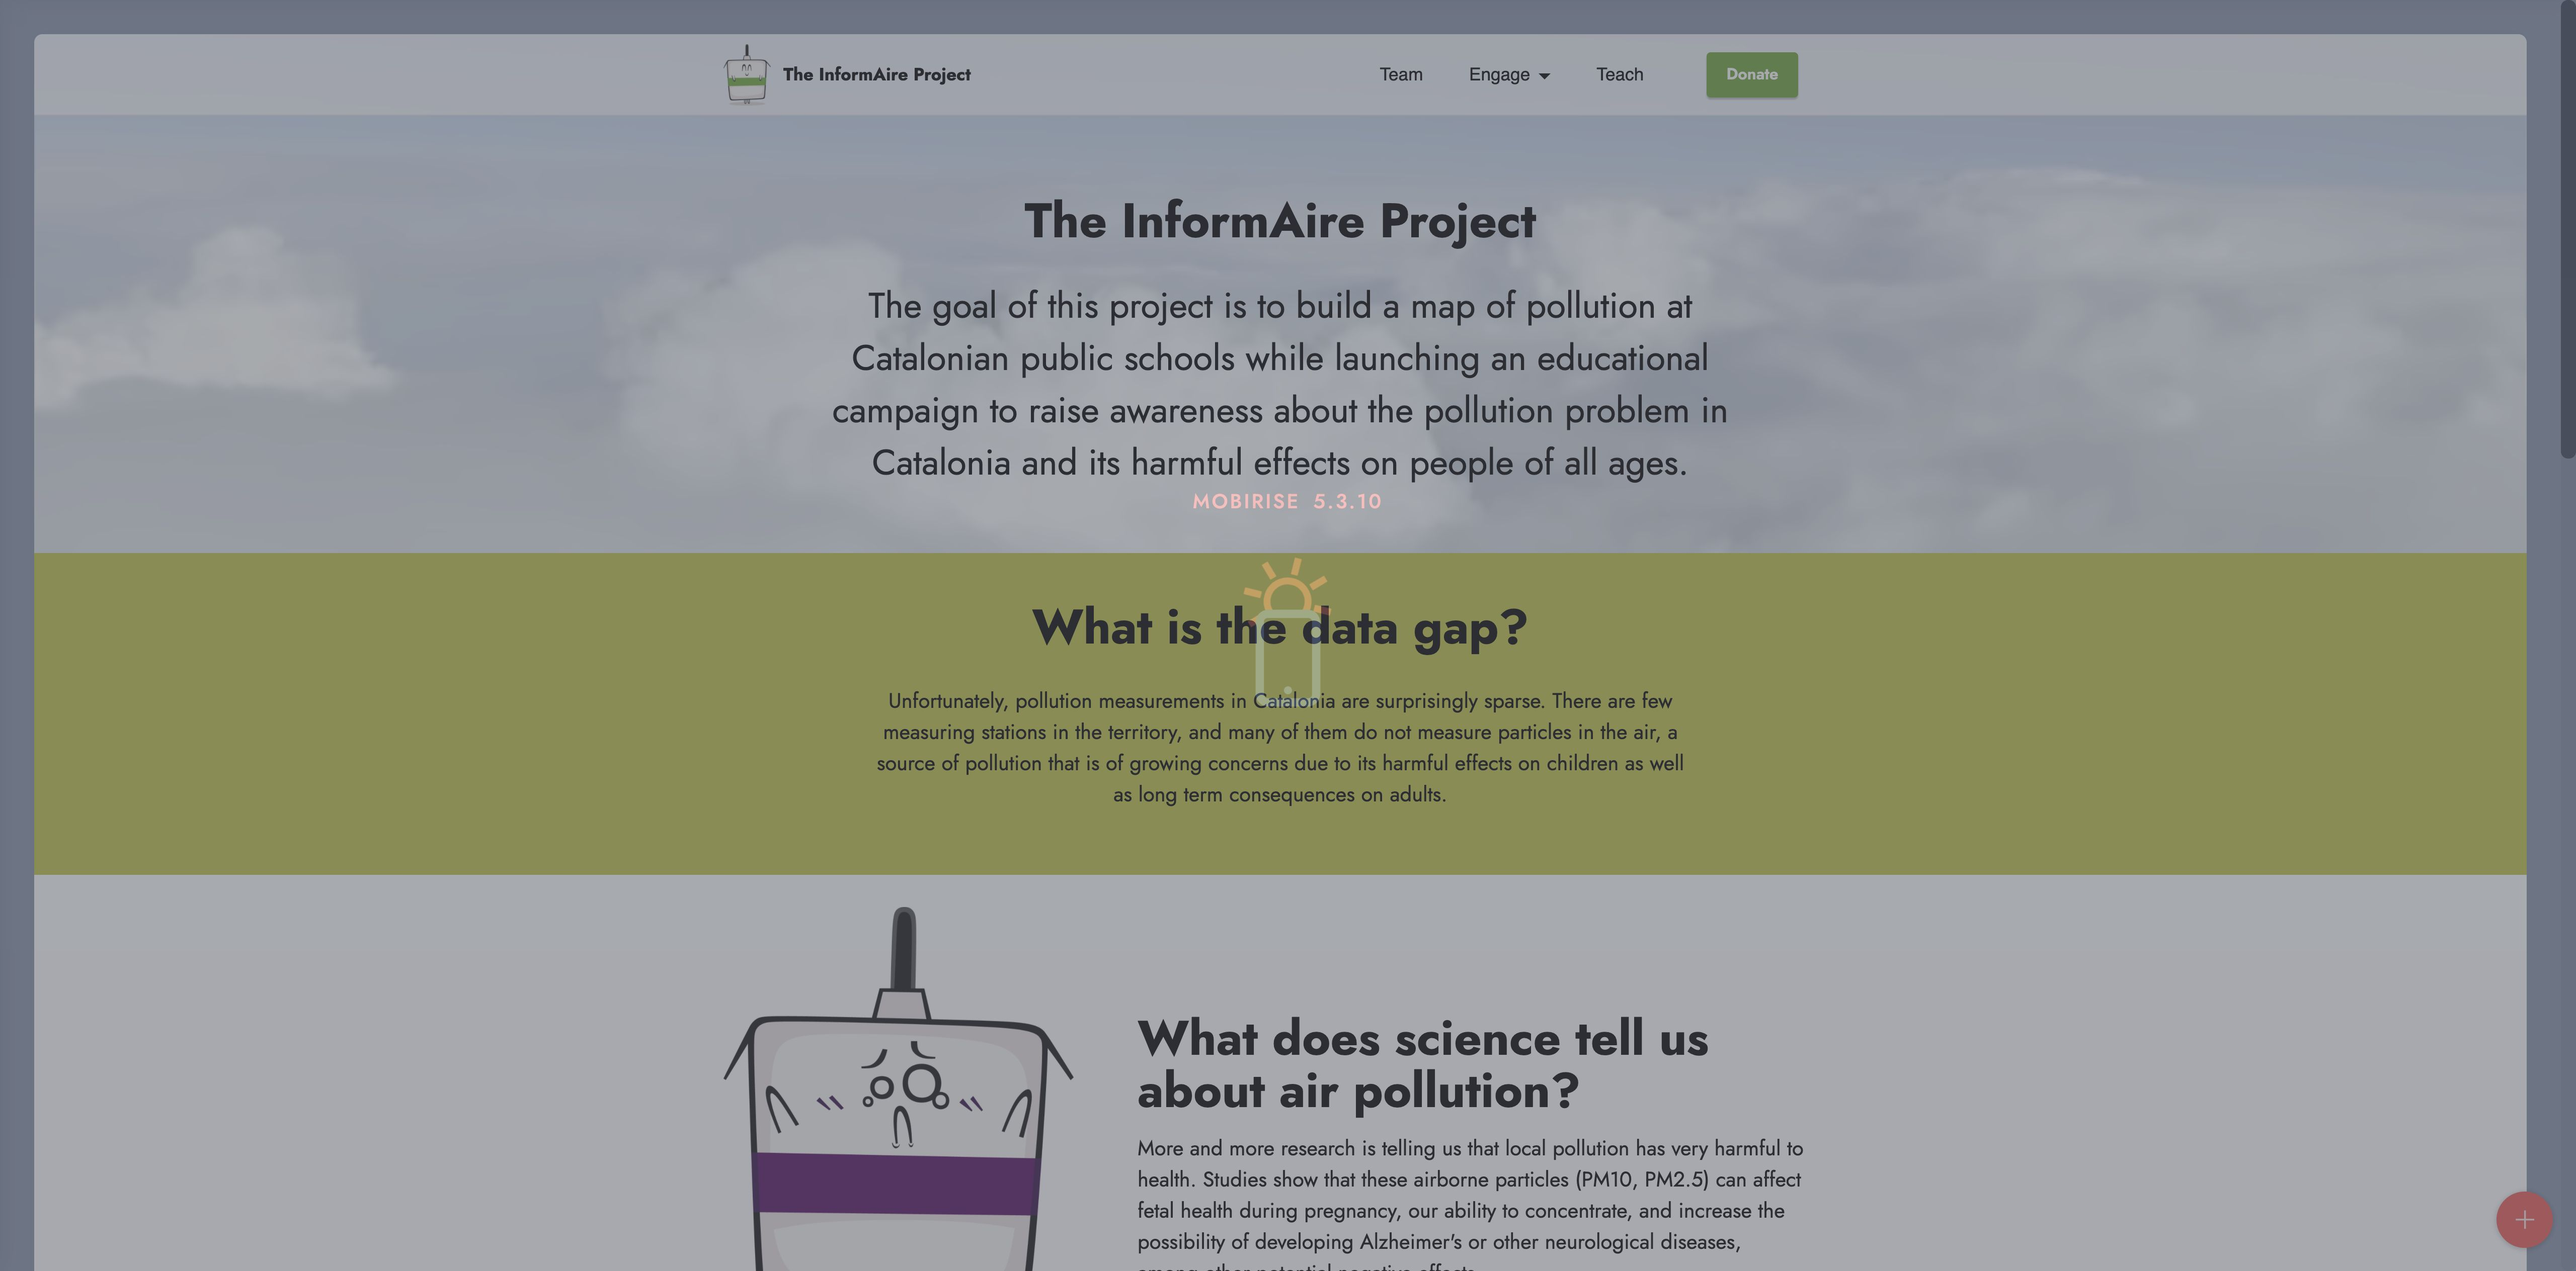
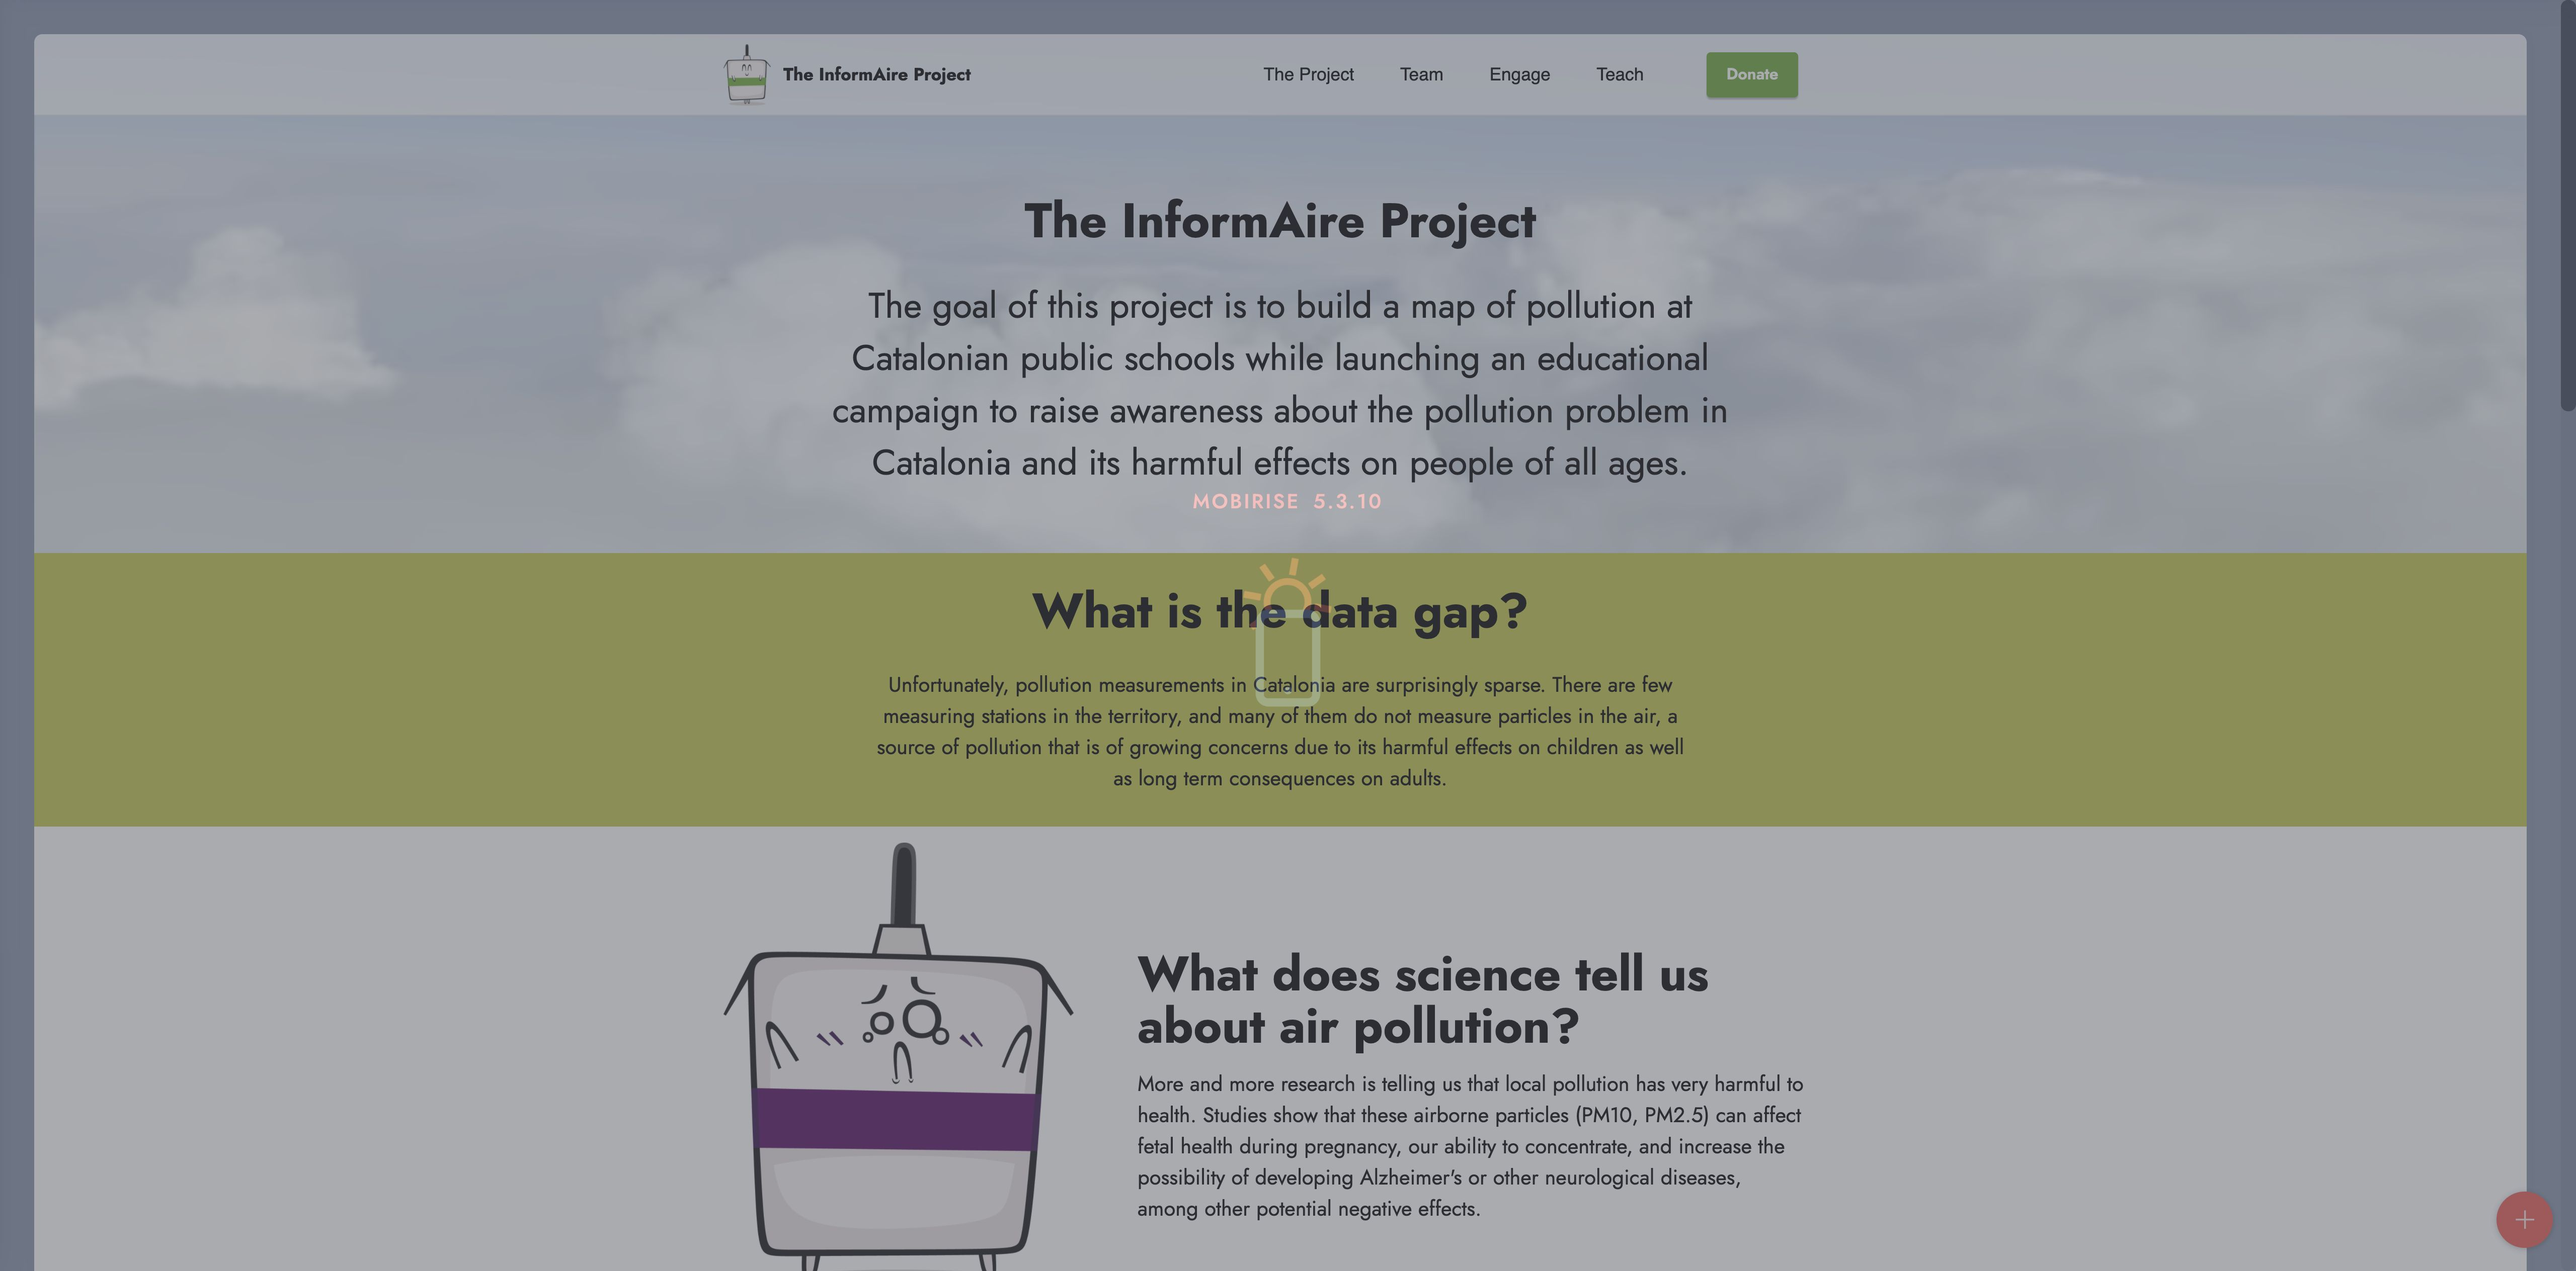
small change to title

Changed region(s): [[0.0, 0.4688, 1.0, 1.0], [0.4375, 0.75, 0.6875, 1.0], [0.9688, 0.3125, 1.0, 0.3438]]

diff --git a/engage.html b/engage.html
@@ -33,38 +33,7 @@
 </head>
 <body>
   
-  <section class="menu cid-sFeZ1M0rtN" once="menu" id="menu1-4q">
-    
-    <nav class="navbar navbar-dropdown navbar-fixed-top navbar-expand-lg">
-        <div class="container">
-            <div class="navbar-brand">
-                <span class="navbar-logo">
-                    <a href="index.html">
-                        <img src="assets/images/01-base-121x156.png" alt="The InformAire Project" style="height: 3.8rem;">
-                    </a>
-                </span>
-                <span class="navbar-caption-wrap"><a class="navbar-caption text-black text-primary display-4" href="index.html">The InformAire Project</a></span>
-            </div>
-            <button class="navbar-toggler" type="button" data-toggle="collapse" data-target="#navbarSupportedContent" aria-controls="navbarNavAltMarkup" aria-expanded="false" aria-label="Toggle navigation">
-                <div class="hamburger">
-                    <span></span>
-                    <span></span>
-                    <span></span>
-                    <span></span>
-                </div>
-            </button>
-            <div class="collapse navbar-collapse" id="navbarSupportedContent">
-                <ul class="navbar-nav nav-dropdown" data-app-modern-menu="true"><li class="nav-item"><a class="nav-link link text-black text-primary display-4" href="index.html" aria-expanded="false">The Project</a></li><li class="nav-item"><a class="nav-link link text-black text-primary display-4" href="about.html" aria-expanded="true">Team</a></li><li class="nav-item"><a class="nav-link link text-black text-primary display-4" href="engage.html" aria-expanded="true">Engage</a></li><li class="nav-item"><a class="nav-link link text-black text-primary display-4" href="education.html" aria-expanded="false">Teach</a></li></ul>
-                
-                <div class="navbar-buttons mbr-section-btn"><a class="btn btn-primary display-3" href="engage.html#image2-3x">
-                        Donate</a></div>
-            </div>
-        </div>
-    </nav>
-
-</section>
-
-<section class="header1 cid-sEMPKwzT15 mbr-parallax-background" id="header1-3e">
+  <section class="header1 cid-sEMPKwzT15 mbr-parallax-background" id="header1-3e">
 
     
 
@@ -113,7 +82,7 @@
         <div class="row">
             <div class="col-lg-8 mx-auto mbr-form" data-form-type="formoid">
 <!--Formbuilder Form-->
-<form action="https://mobirise.eu/" method="POST" class="mbr-form form-with-styler" data-form-title="Untitled Form"><input type="hidden" name="email" data-form-email="true" value="hgGPIVvRiYhY4JKp2/dugI08qukRxwAfG5TyKmxQj1Hc9ixEC9usjMxbRSiuRA6+hiMlWxkUzzjFfXCNk3KQCC11XfOvbf0yd9juq+8fz2ddljEzt8gUIritVfpk1gd3.pqXC2E1UwucSx10HZI3yFQLH7a6PRcyGQh89pUaw1LfRxAnFl/G6Ow9hPbI2/Kg1DeVqhTLReSo64C4qgrIsElKFIdSgRD8E1e3T+WkIC5Lu/edqpOnAoHkshaIAXb0q">
+<form action="https://mobirise.eu/" method="POST" class="mbr-form form-with-styler" data-form-title="Untitled Form"><input type="hidden" name="email" data-form-email="true" value="XQ2BXU7ZjmLnUzwqfESUYqYbDW2DC7lnIhUROeLa82p+C2BAwtIWPRDslJ6mV939+la+fHuXy3EiUk2xdwOP577XCAPetuXlZnLfJDlhMnJbu5bUeZRQMuNAKHscneqh.cuON/drF0cOnGkI8eQ/7Mfq7nm9tyZn/JgvVAGWKeo7RftOk2KlPrv8wW3ZkjAOabR3jvyvDHktTi6tGkBntc4/i8onZebplChbMYWhjo+Hd0pI2bBedzDsMIg57ncqn">
 <div class="form-row">
 <div hidden="hidden" data-form-alert="" class="alert alert-success col-12">Thank you for your interest! We will contact you soon with more information.</div>
 <div hidden="hidden" data-form-alert-danger="" class="alert alert-danger col-12">Oops...! some problem!</div>
@@ -248,6 +217,37 @@
             </div>
         </div>
     </div>
+</section>
+
+<section class="menu cid-sFeZ1M0rtN" once="menu" id="menu1-4q">
+    
+    <nav class="navbar navbar-dropdown navbar-fixed-top navbar-expand-lg">
+        <div class="container">
+            <div class="navbar-brand">
+                <span class="navbar-logo">
+                    <a href="index.html">
+                        <img src="assets/images/01-base-121x156.png" alt="The InformAire Project" style="height: 3.8rem;">
+                    </a>
+                </span>
+                <span class="navbar-caption-wrap"><a class="navbar-caption text-black text-primary display-4" href="index.html">The InformAire Project</a></span>
+            </div>
+            <button class="navbar-toggler" type="button" data-toggle="collapse" data-target="#navbarSupportedContent" aria-controls="navbarNavAltMarkup" aria-expanded="false" aria-label="Toggle navigation">
+                <div class="hamburger">
+                    <span></span>
+                    <span></span>
+                    <span></span>
+                    <span></span>
+                </div>
+            </button>
+            <div class="collapse navbar-collapse" id="navbarSupportedContent">
+                <ul class="navbar-nav nav-dropdown" data-app-modern-menu="true"><li class="nav-item"><a class="nav-link link text-black text-primary display-4" href="index.html" aria-expanded="false">The Project</a></li><li class="nav-item"><a class="nav-link link text-black text-primary display-4" href="about.html" aria-expanded="true">Team</a></li><li class="nav-item"><a class="nav-link link text-black text-primary display-4" href="engage.html" aria-expanded="true">Engage</a></li><li class="nav-item"><a class="nav-link link text-black text-primary display-4" href="education.html" aria-expanded="false">Teach</a></li></ul>
+                
+                <div class="navbar-buttons mbr-section-btn"><a class="btn btn-primary display-3" href="engage.html#image2-3x">
+                        Donate</a></div>
+            </div>
+        </div>
+    </nav>
+
 </section>
 
 <section class="footer5 cid-sFkn7aUcHC" once="footers" id="footer5-4s">

diff --git a/about.html b/about.html
@@ -29,38 +29,7 @@
 </head>
 <body>
   
-  <section class="menu cid-sFeZ1M0rtN" once="menu" id="menu1-4q">
-    
-    <nav class="navbar navbar-dropdown navbar-fixed-top navbar-expand-lg">
-        <div class="container">
-            <div class="navbar-brand">
-                <span class="navbar-logo">
-                    <a href="index.html">
-                        <img src="assets/images/01-base-121x156.png" alt="The InformAire Project" style="height: 3.8rem;">
-                    </a>
-                </span>
-                <span class="navbar-caption-wrap"><a class="navbar-caption text-black text-primary display-4" href="index.html">The InformAire Project</a></span>
-            </div>
-            <button class="navbar-toggler" type="button" data-toggle="collapse" data-target="#navbarSupportedContent" aria-controls="navbarNavAltMarkup" aria-expanded="false" aria-label="Toggle navigation">
-                <div class="hamburger">
-                    <span></span>
-                    <span></span>
-                    <span></span>
-                    <span></span>
-                </div>
-            </button>
-            <div class="collapse navbar-collapse" id="navbarSupportedContent">
-                <ul class="navbar-nav nav-dropdown" data-app-modern-menu="true"><li class="nav-item"><a class="nav-link link text-black text-primary display-4" href="index.html" aria-expanded="false">The Project</a></li><li class="nav-item"><a class="nav-link link text-black text-primary display-4" href="about.html" aria-expanded="true">Team</a></li><li class="nav-item"><a class="nav-link link text-black text-primary display-4" href="engage.html" aria-expanded="true">Engage</a></li><li class="nav-item"><a class="nav-link link text-black text-primary display-4" href="education.html" aria-expanded="false">Teach</a></li></ul>
-                
-                <div class="navbar-buttons mbr-section-btn"><a class="btn btn-primary display-3" href="engage.html#image2-3x">
-                        Donate</a></div>
-            </div>
-        </div>
-    </nav>
-
-</section>
-
-<section class="header1 cid-sF2HV35Vyx mbr-parallax-background" id="header1-43">
+  <section class="header1 cid-sF2HV35Vyx mbr-parallax-background" id="header1-43">
 
     
 
@@ -166,6 +135,37 @@
             </div>
         </div>
     </div>
+</section>
+
+<section class="menu cid-sFeZ1M0rtN" once="menu" id="menu1-4q">
+    
+    <nav class="navbar navbar-dropdown navbar-fixed-top navbar-expand-lg">
+        <div class="container">
+            <div class="navbar-brand">
+                <span class="navbar-logo">
+                    <a href="index.html">
+                        <img src="assets/images/01-base-121x156.png" alt="The InformAire Project" style="height: 3.8rem;">
+                    </a>
+                </span>
+                <span class="navbar-caption-wrap"><a class="navbar-caption text-black text-primary display-4" href="index.html">The InformAire Project</a></span>
+            </div>
+            <button class="navbar-toggler" type="button" data-toggle="collapse" data-target="#navbarSupportedContent" aria-controls="navbarNavAltMarkup" aria-expanded="false" aria-label="Toggle navigation">
+                <div class="hamburger">
+                    <span></span>
+                    <span></span>
+                    <span></span>
+                    <span></span>
+                </div>
+            </button>
+            <div class="collapse navbar-collapse" id="navbarSupportedContent">
+                <ul class="navbar-nav nav-dropdown" data-app-modern-menu="true"><li class="nav-item"><a class="nav-link link text-black text-primary display-4" href="index.html" aria-expanded="false">The Project</a></li><li class="nav-item"><a class="nav-link link text-black text-primary display-4" href="about.html" aria-expanded="true">Team</a></li><li class="nav-item"><a class="nav-link link text-black text-primary display-4" href="engage.html" aria-expanded="true">Engage</a></li><li class="nav-item"><a class="nav-link link text-black text-primary display-4" href="education.html" aria-expanded="false">Teach</a></li></ul>
+                
+                <div class="navbar-buttons mbr-section-btn"><a class="btn btn-primary display-3" href="engage.html#image2-3x">
+                        Donate</a></div>
+            </div>
+        </div>
+    </nav>
+
 </section>
 
 <section class="footer5 cid-sFkn7aUcHC" once="footers" id="footer5-4s">

diff --git a/index.html b/index.html
@@ -141,8 +141,8 @@
             </div>
             <div class="col-12 col-lg">
                 <div class="text-wrapper">
-                    <h3 class="mbr-section-title mbr-fonts-style mb-3 display-5">
-                        <strong>The Sensors</strong></h3>
+                    <h3 class="mbr-section-title mbr-fonts-style mb-3 display-2">
+                        <strong>The sensors</strong></h3>
                     <p class="mbr-text mbr-fonts-style display-7">
                         We plan to deploy sensors a the entrance or playgrounds of the schools. The sensors will be in a visible area so that the students and teachers can check the status of air quality at all times. The sensors, made by <a href="https://airly.org" class="text-primary">airly.org</a>, feature an LED display that convey the pollution conditions in an easy way. The data can also be accessed online in a map.</p>
                 </div>

diff --git a/assets/mobirise/css/mbr-additional.css b/assets/mobirise/css/mbr-additional.css
@@ -798,8 +798,8 @@ a {
   background-color: #ddffc5;
 }
 .cid-sFkn7aUcHC {
-  padding-top: 30px;
-  padding-bottom: 0px;
+  padding-top: 45px;
+  padding-bottom: 45px;
   background-color: #353535;
 }
 @media (max-width: 767px) {
@@ -3305,8 +3305,8 @@ a {
   }
 }
 .cid-sFkn7aUcHC {
-  padding-top: 30px;
-  padding-bottom: 0px;
+  padding-top: 45px;
+  padding-bottom: 45px;
   background-color: #353535;
 }
 @media (max-width: 767px) {
